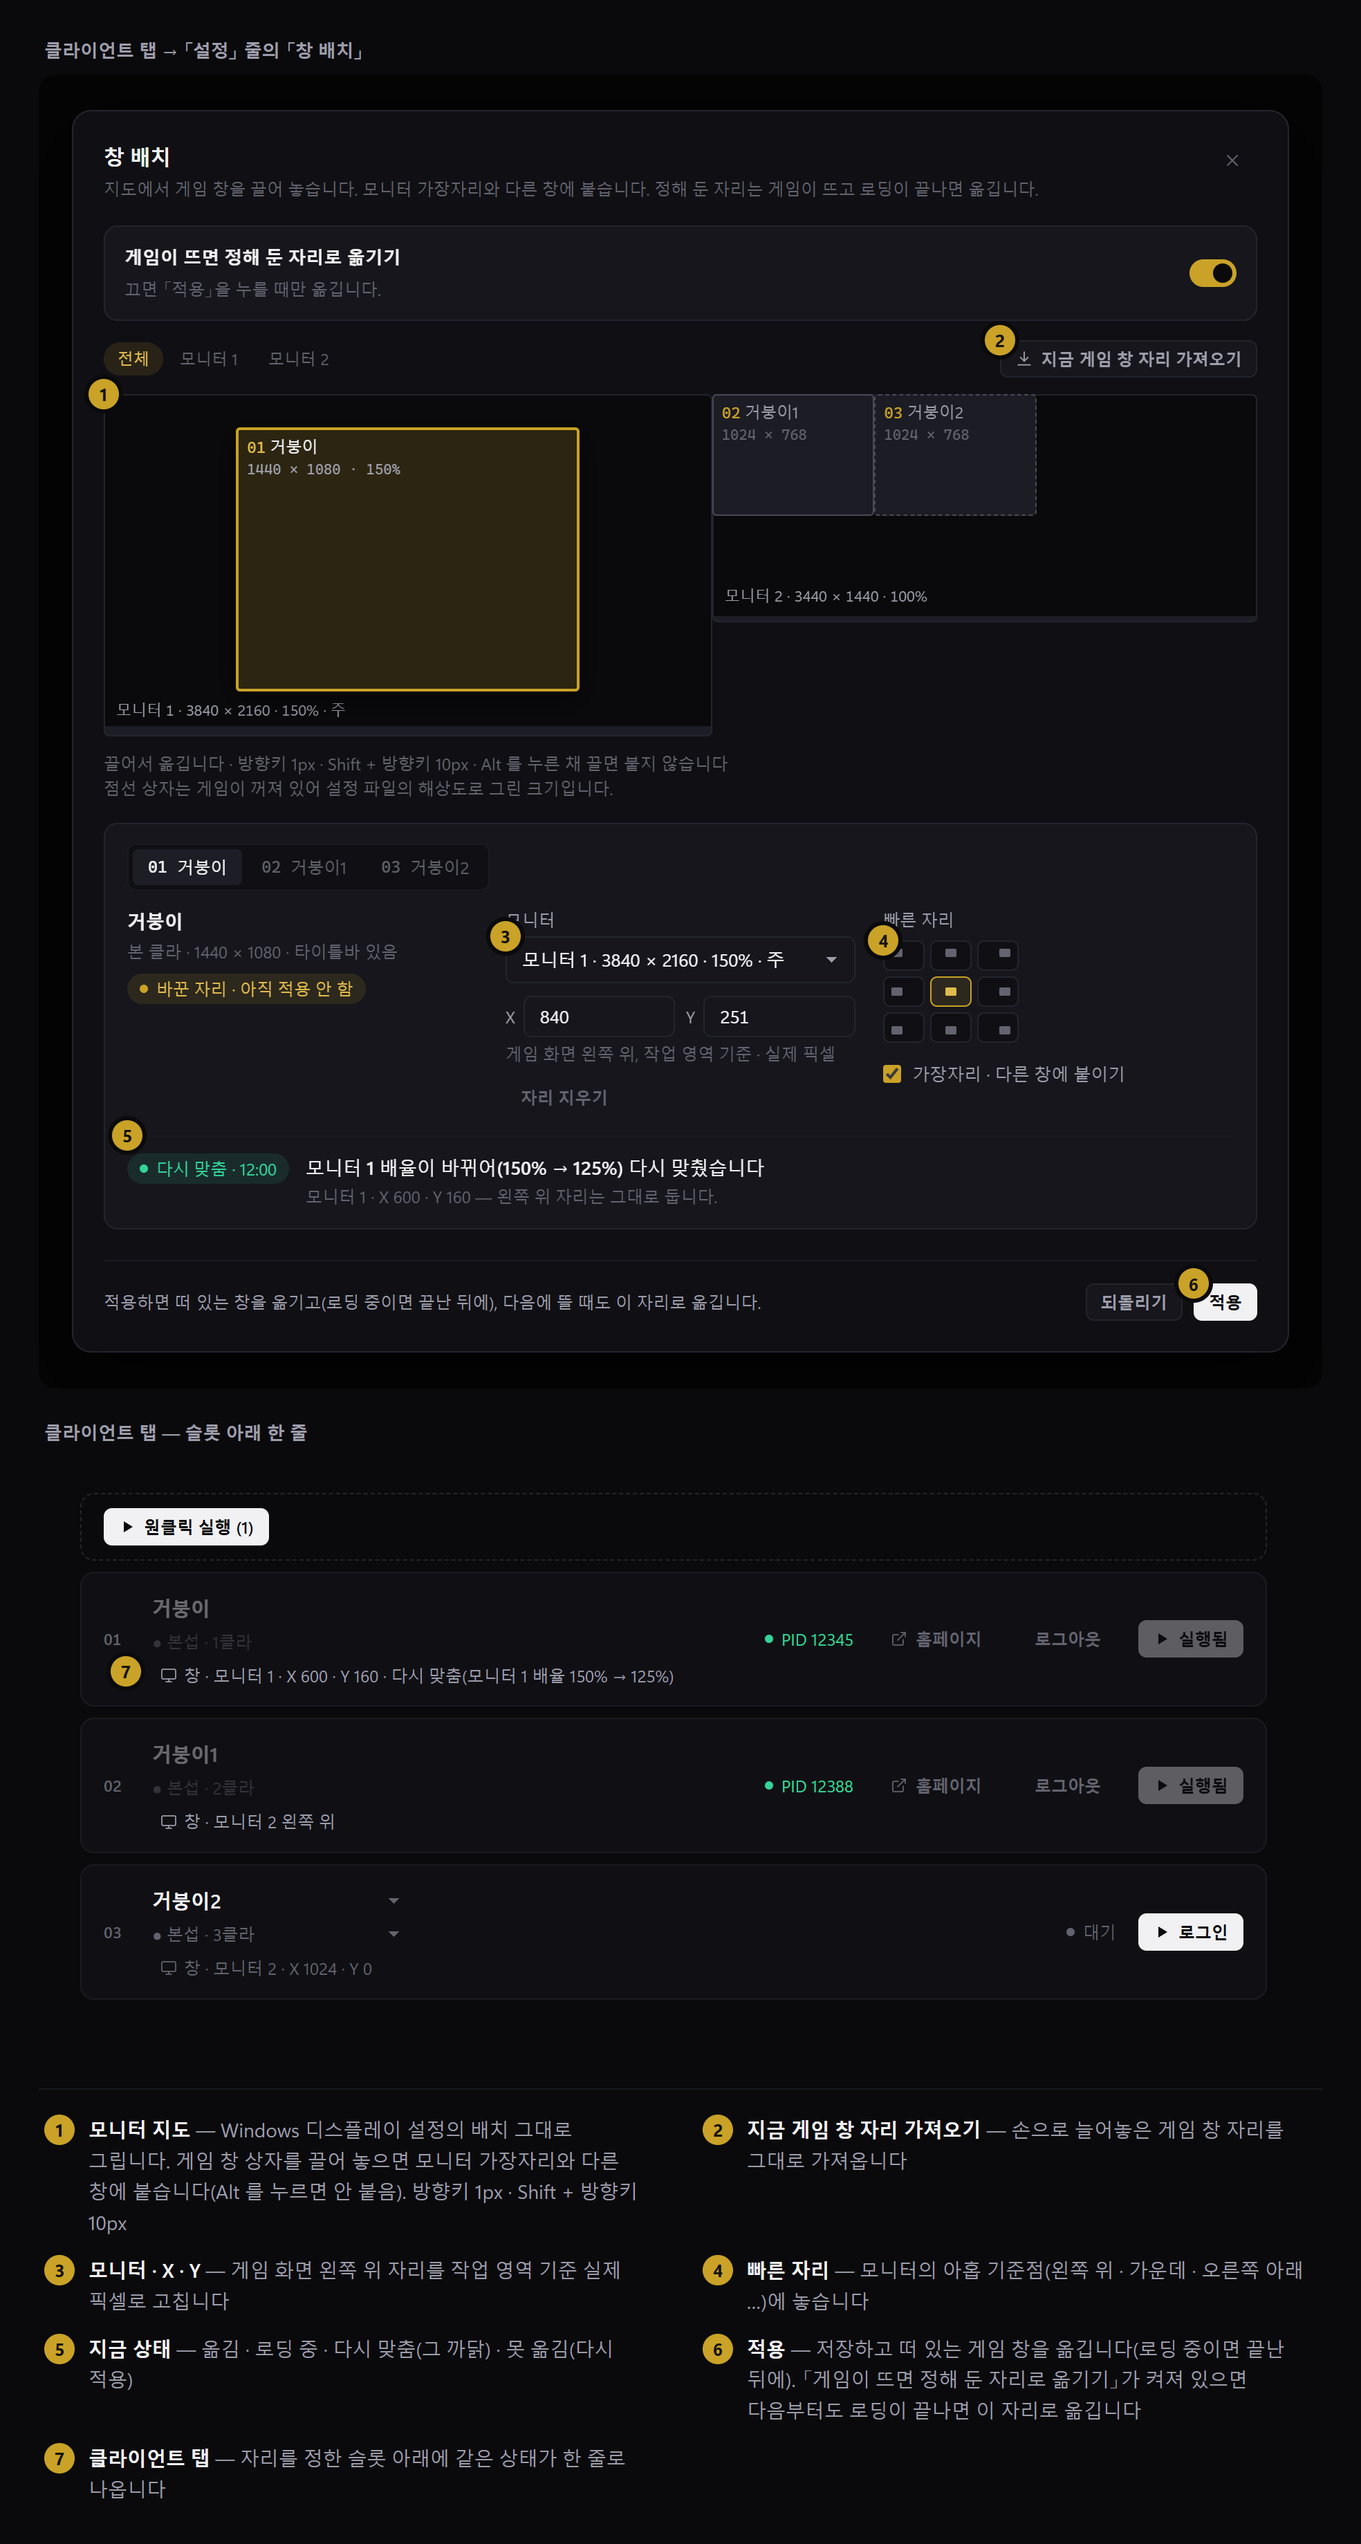
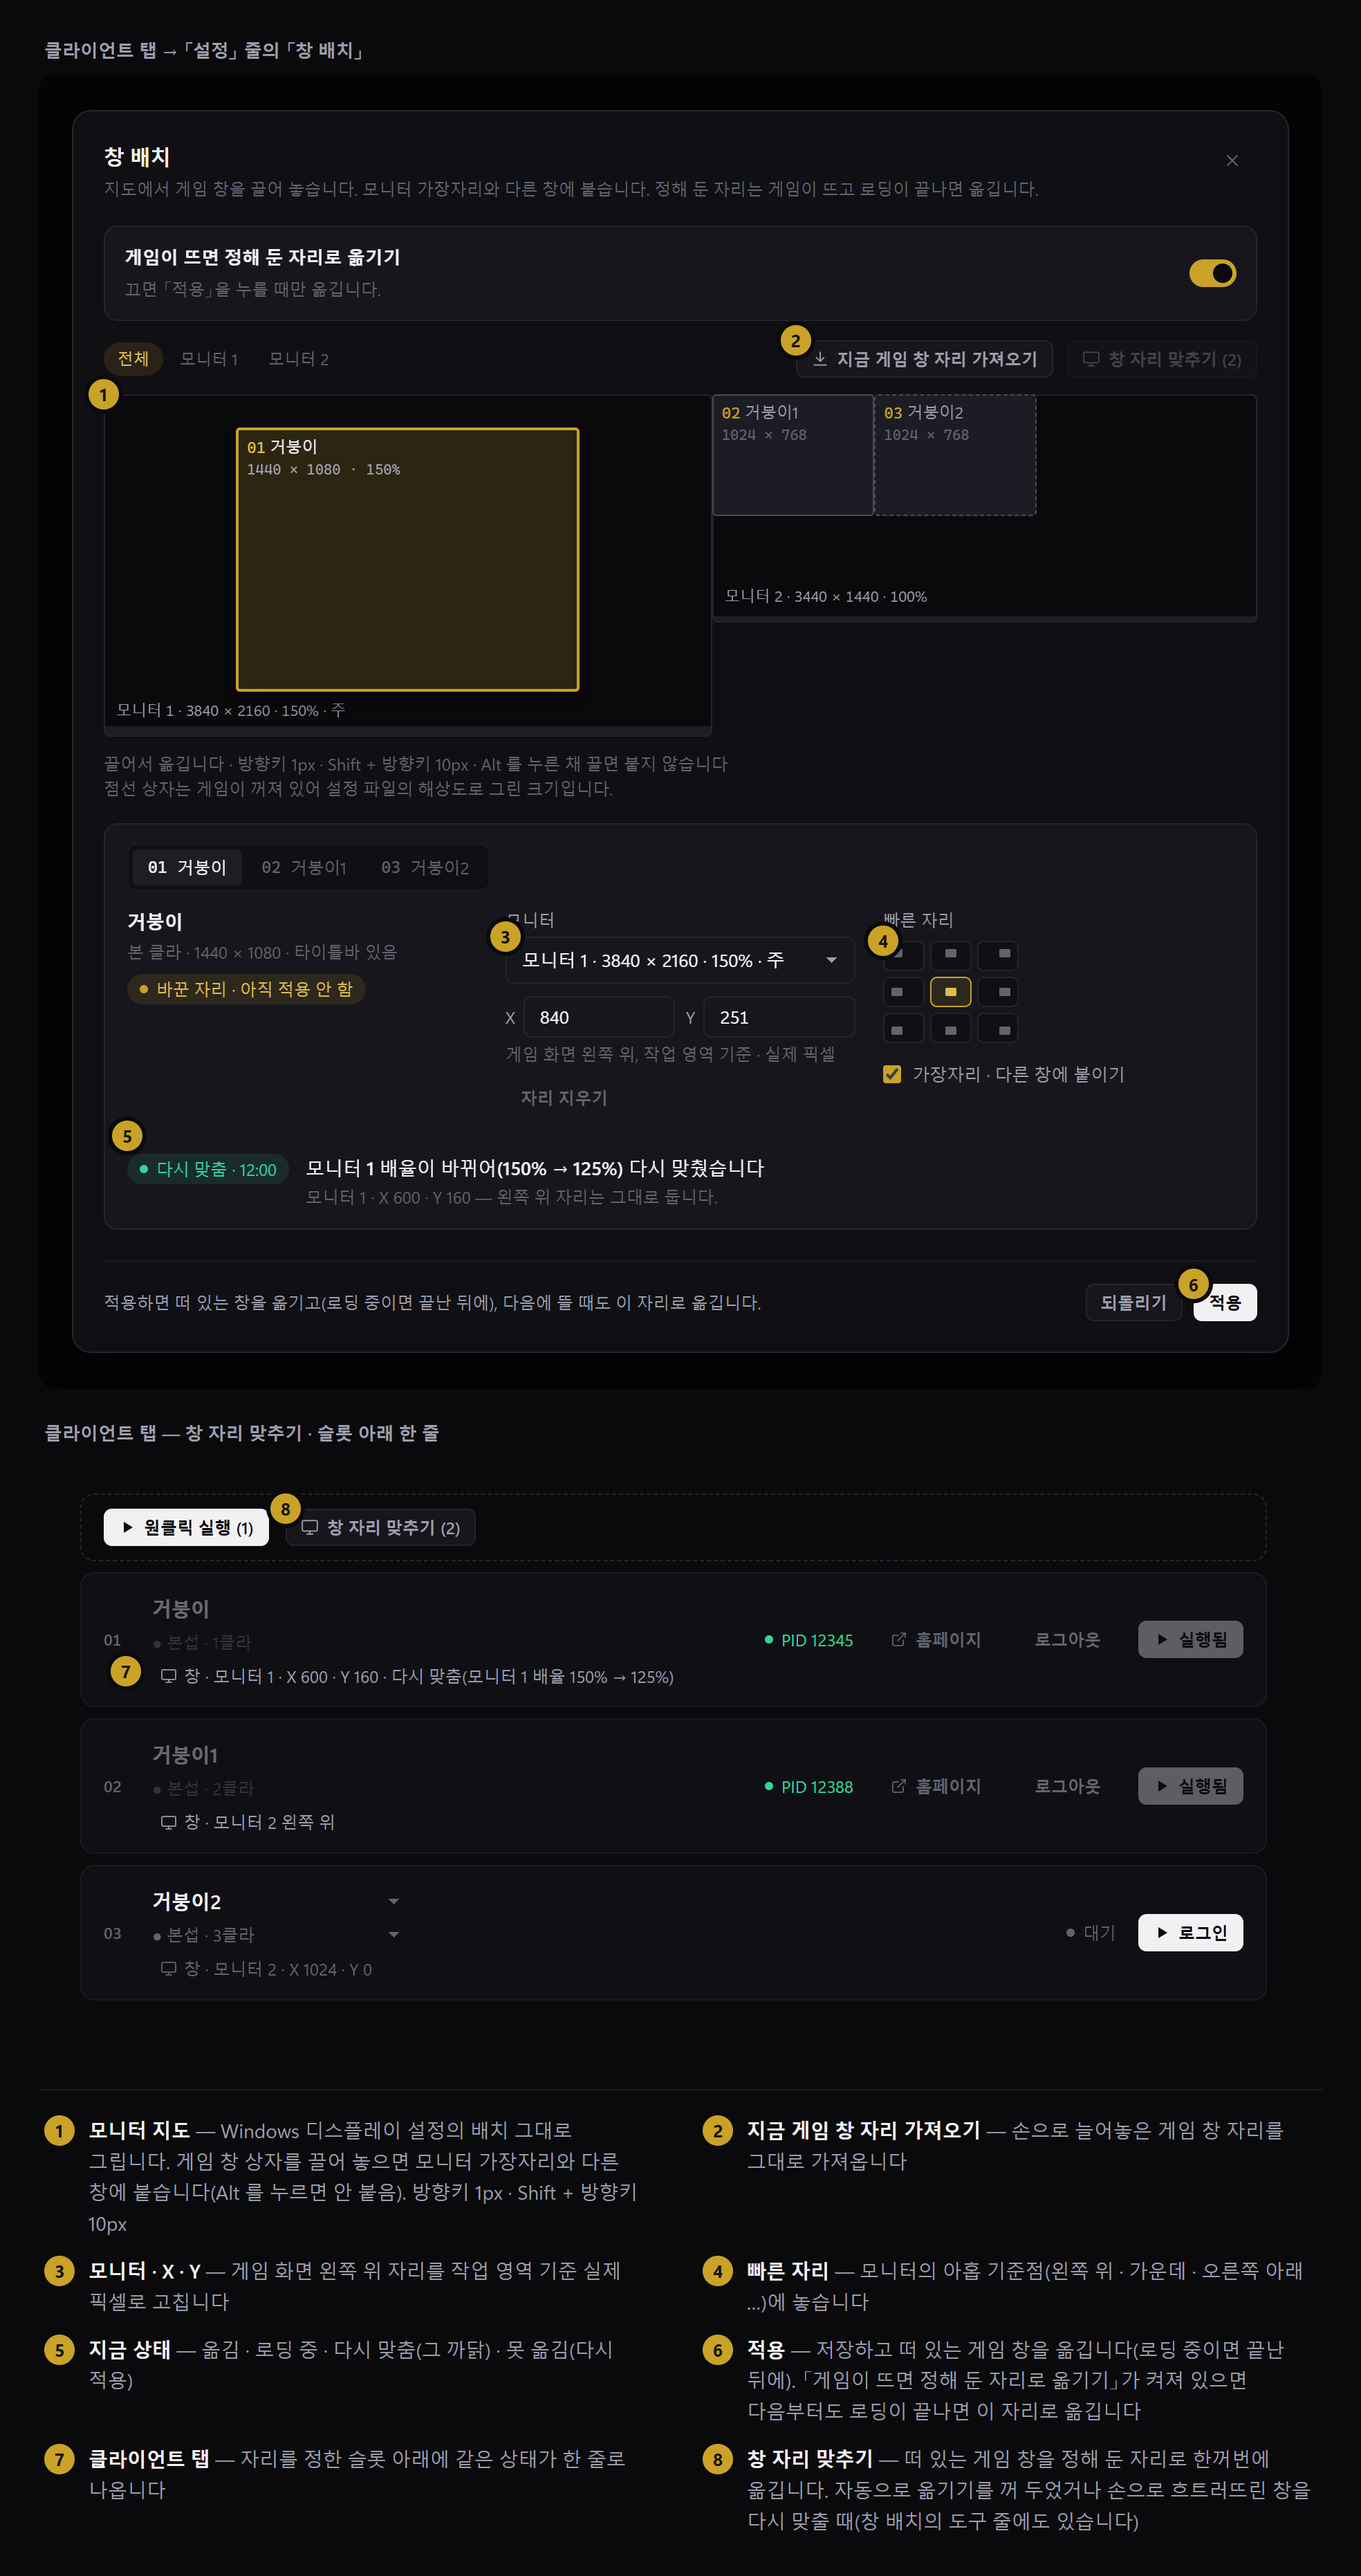
updated: window placement image, guide.md

diff --git a/GUIDE.md b/GUIDE.md
@@ -77,6 +77,11 @@ OTP 를 쓰는 계정은 그 줄이 인증번호 입력 칸으로 바뀝니다. 
 - 자리를 정한 슬롯은 클라이언트 탭 슬롯 아래에 지금 상태가 한 줄로 나옵니다(옮김 · 로딩 중 · 다시 맞춤 ·
   못 옮김). 자동으로 옮기는 것을 끄려면 「게임이 뜨면 정해 둔 자리로 옮기기」를 끄세요 — 그때는 「적용」을
   누를 때만 옮깁니다.
+- 「원클릭 실행」 옆 **창 자리 맞추기** 는 떠 있는 게임 창을 정해 둔 자리로 한꺼번에 옮깁니다. 자동으로 옮기기를 꺼 두고
+  게임을 켰거나, 손으로 흐트러뜨린 창을 다시 맞출 때 씁니다. 창 배치 화면의 도구 줄에도 있습니다(고친 자리가 남아 있으면
+  먼저 「적용」하거나 「되돌리기」 해야 눌립니다).
+- 자리를 정하지 않은 슬롯은 지도에 흐린 점선 상자로 보입니다. 끌거나 방향키로 옮기면 자리가 정해지고, 「적용」을 눌러야
+  저장됩니다.
 
 ---
 
